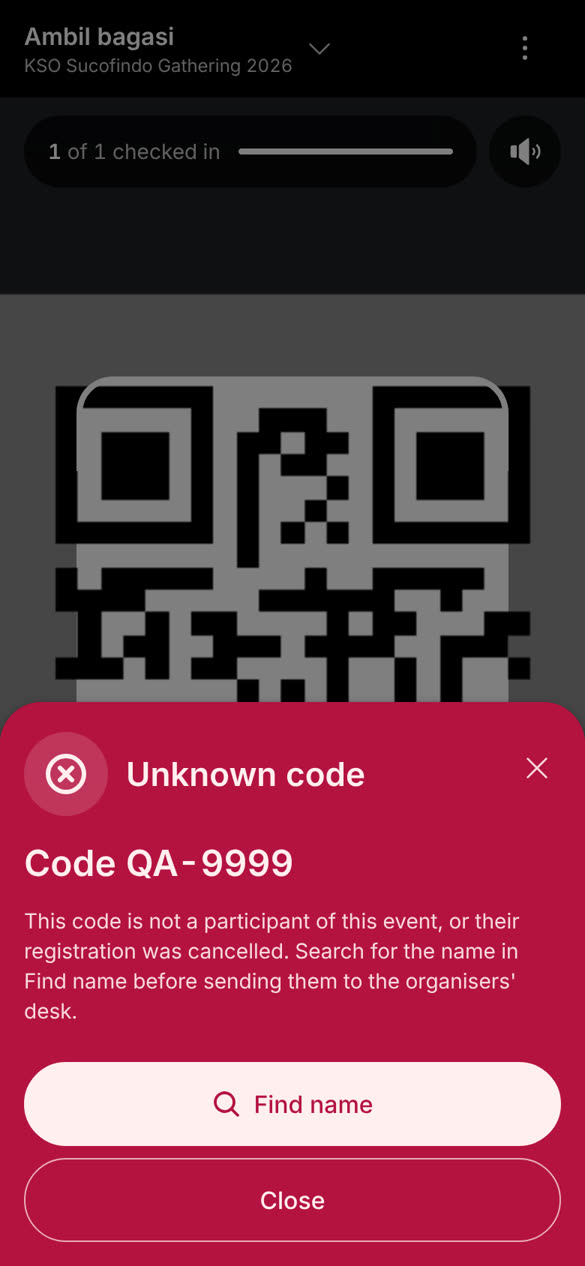
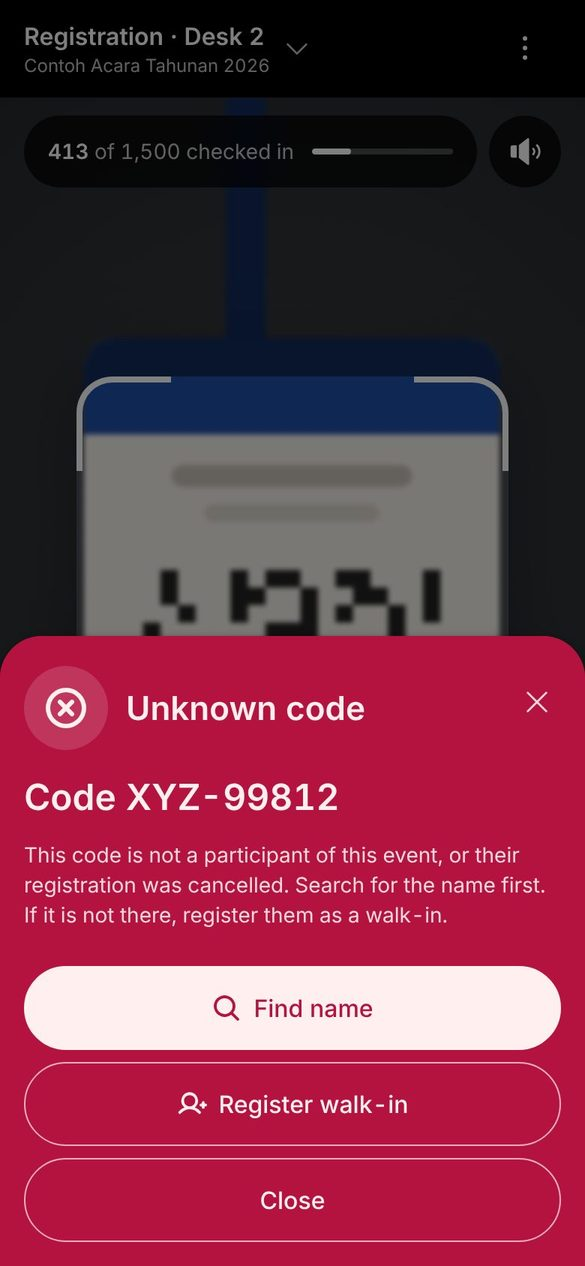
Scanner guide: pick-up desk section, screenshots on the redesigned scanner
New section 8 "Meja ambil bagasi" for the Luggage: Pick-up desk (#267):
match the bags to the drop-off photo, Hand over, Undo, already handed
over, and no luggage recorded, with four screenshots.

Every scanner screenshot is retaken on the redesigned scanner (#270)
with a sample event and sample names, and a drawn badge as the camera
image. This also fixes #270 L-7 (shots 05/06 from a luggage session).

Claude-Session: https://claude.ai/code/session_01BbtsbgVen8D1xESV4ZJwca

diff --git a/public/panduan/scanner.html b/public/panduan/scanner.html
@@ -95,7 +95,7 @@ footer { margin-top: 36px; color: var(--muted); font-size: 13px; }
   </header>
 
   <nav class="chips" aria-label="Bagian panduan">
-    <a href="#mulai">Mulai</a><a href="#meja">Sesi &amp; meja</a><a href="#scan">Scan QR</a><a href="#hasil">Arti warna</a><a href="#cari">Find name</a><a href="#walkin">Walk-in</a><a href="#riwayat">Riwayat</a><a href="#bagasi">Bagasi</a><a href="#masalah">Kalau ada masalah</a>
+    <a href="#mulai">Mulai</a><a href="#meja">Sesi &amp; meja</a><a href="#scan">Scan QR</a><a href="#hasil">Arti warna</a><a href="#cari">Find name</a><a href="#walkin">Walk-in</a><a href="#riwayat">Riwayat</a><a href="#bagasi">Titip bagasi</a><a href="#ambil">Ambil bagasi</a><a href="#masalah">Kalau ada masalah</a>
   </nav>
 
   <section id="mulai">
@@ -219,7 +219,7 @@ footer { margin-top: 36px; color: var(--muted); font-size: 13px; }
       <li>Pastikan judul atas menunjukkan sesi bagasi (ganti lewat judul itu kalau belum), lalu pindai QR peserta seperti biasa.</li>
       <li>Hitung bagasi yang dititipkan (koper, tas, kardus), lalu atur angka <span class="ui">How many bags?</span> dengan tombol <span class="ui">−</span> dan <span class="ui">+</span>. Peserta tidak menitipkan apa pun? Biarkan 0; tombol simpan berubah menjadi <span class="ui">No luggage</span>.</li>
       <li>Tekan <span class="ui">Take photo</span>. Kamera HP terbuka. Ambil satu foto berisi semua bagasi orang itu, dengan label bagasinya terlihat kalau ada. Foto kurang jelas? Tekan <span class="ui">Retake</span>.</li>
-      <li>Tekan tombol biru di bawah, misalnya <span class="ui">Save · 2 bags</span>. Setelah muncul <span class="ui kalimat">Saved. Scan the next participant.</span>, lanjut ke peserta berikutnya.</li>
+      <li>Tekan tombol putih di bawah, misalnya <span class="ui">Save · 2 bags</span>. Setelah muncul <span class="ui kalimat">Saved. Scan the next participant.</span>, lanjut ke peserta berikutnya.</li>
     </ol>
     <div class="pair">
       <figure><img src="/panduan/scanner/15-bagasi-jumlah.jpg" alt="Lembar hasil dengan isian How many bags? berisi 2 dan tombol Take photo" loading="lazy"><figcaption>Hitung, lalu Take photo</figcaption></figure>
@@ -227,7 +227,7 @@ footer { margin-top: 36px; color: var(--muted); font-size: 13px; }
     </div>
     <figure><img src="/panduan/scanner/17-bagasi-tersimpan.jpg" alt="Catatan 2 bags dengan foto dan tulisan Saved. Scan the next participant." loading="lazy"><figcaption>Tersimpan: jumlah, foto, jam, dan nama akun petugas</figcaption></figure>
     <h3>Sinyal lemah saat mengirim foto</h3>
-    <p>Jumlah bagasi selalu disimpan lebih dulu, baru fotonya menyusul. Kalau fotonya gagal terkirim, muncul tulisan oranye <span class="ui kalimat">The count is saved, but the photo did not upload.</span> Jumlahnya sudah aman. Tekan <span class="ui">Try photo again</span>, atau <span class="ui">Skip photo</span> kalau antrean panjang; catatannya tetap tersimpan, hanya tanpa foto (<span class="ui">no photo</span>).</p>
+    <p>Jumlah bagasi selalu disimpan lebih dulu, baru fotonya menyusul. Kalau fotonya gagal terkirim, muncul kotak <span class="ui kalimat">The count is saved, but the photo did not upload.</span> Jumlahnya sudah aman. Tekan <span class="ui">Try photo again</span>, atau <span class="ui">Skip photo</span> kalau antrean panjang; catatannya tetap tersimpan, hanya tanpa foto (<span class="ui">no photo</span>).</p>
     <figure><img src="/panduan/scanner/18-bagasi-foto-gagal.jpg" alt="Tulisan oranye The count is saved, but the photo did not upload, dengan tombol Skip photo dan Try photo again" loading="lazy"><figcaption>Foto gagal: jumlah tetap tersimpan</figcaption></figure>
     <h3>Memindai ulang dan mengubah catatan</h3>
     <p>Peserta yang sudah tercatat menampilkan catatannya: jumlah, foto, jam, dan siapa yang menyimpan. Ketuk fotonya untuk membukanya ukuran penuh di tab baru. Ada bagasi yang tertinggal atau salah hitung? Tekan <span class="ui">Edit</span>, ubah angkanya atau ambil foto baru, lalu simpan lagi.</p>
@@ -239,8 +239,34 @@ footer { margin-top: 36px; color: var(--muted); font-size: 13px; }
     </ul>
   </section>
 
+  <section id="ambil">
+    <h2><span class="no">8</span>Meja ambil bagasi</h2>
+    <p>Hanya di sesi yang admin atur <span class="ui">Luggage: Pick-up</span>, misalnya <span class="ui">Ambil bagasi</span>. QR peserta adalah tiket pengambilannya: setelah dipindai, lembar hasil menampilkan semua bagasi yang ia titipkan di meja titip mana pun di acara ini, lengkap dengan fotonya. Meja ambil tidak perlu dipasangkan dengan meja titip.</p>
+    <ol class="steps">
+      <li>Pastikan judul atas menunjukkan sesi ambil bagasi, lalu pindai QR peserta seperti biasa.</li>
+      <li>Lihat jumlah dan foto di bagian <span class="ui">Luggage to hand over</span>. Ambil koper di rak yang cocok dengan foto itu (warna, bentuk, label bagasi). Ketuk foto untuk melihatnya ukuran penuh.</li>
+      <li>Hitung bersama peserta, lalu tekan tombol putih <span class="ui">Hand over 2 bags</span> (angkanya mengikuti catatan). Semua bagasi satu titipan diserahkan sekaligus.</li>
+      <li>Setelah muncul <span class="ui">Handed over</span> dan <span class="ui kalimat">Saved. Scan the next participant.</span>, lanjut ke peserta berikutnya.</li>
+    </ol>
+    <div class="pair">
+      <figure><img src="/panduan/scanner/20-ambil-cocokkan.jpg" alt="Lembar hasil dengan bagian Luggage to hand over: foto dua koper, 2 bags, dan tombol Hand over 2 bags" loading="lazy"><figcaption>Cocokkan koper dengan foto</figcaption></figure>
+      <figure><img src="/panduan/scanner/21-ambil-diserahkan.jpg" alt="Tulisan Handed over dengan jam, nama akun petugas, dan tombol Undo" loading="lazy"><figcaption>Handed over: jam dan nama petugas tercatat</figcaption></figure>
+    </div>
+    <h3>Sudah diambil, atau tidak ada titipan</h3>
+    <p>Peserta yang bagasinya sudah diserahkan menampilkan kotak <span class="ui kalimat">Already handed over at … by ….</span> Jangan serahkan lagi. Kalau peserta bilang ada koper yang belum ia terima, panggil koordinator. Peserta yang tidak pernah dipindai di meja titip menampilkan <span class="ui">No luggage recorded</span>: tanyakan di mana ia menitipkan bagasinya.</p>
+    <div class="pair">
+      <figure><img src="/panduan/scanner/22-ambil-sudah.jpg" alt="Kotak Already handed over at 07:40 by scanner-ambil2 di atas foto koper" loading="lazy"><figcaption>Sudah diserahkan: jangan serahkan lagi</figcaption></figure>
+      <figure><img src="/panduan/scanner/23-ambil-tidak-ada.jpg" alt="Tulisan No luggage recorded" loading="lazy"><figcaption>Tidak ada titipan</figcaption></figure>
+    </div>
+    <ul>
+      <li>Salah tekan <span class="ui">Hand over</span>? Tekan <span class="ui">Undo</span> di lembar yang sama. Undo hanya ada untuk penyerahan yang Anda buat sendiri.</li>
+      <li>Selama tombol <span class="ui">Hand over</span> belum ditekan, peserta berikutnya yang terpindai menunggu dengan tulisan <span class="ui kalimat">… is scanned and waiting. Hand over the luggage of … first.</span>, sama seperti di meja titip.</li>
+      <li>Setelah diserahkan, kartu <span class="ui">Bagasi</span> peserta di halaman Perjalanan berubah menjadi <span class="ui">Sudah kamu terima</span> dengan jamnya.</li>
+    </ul>
+  </section>
+
   <section id="masalah">
-    <h2><span class="no">8</span>Kalau ada masalah</h2>
+    <h2><span class="no">9</span>Kalau ada masalah</h2>
     <figure><img src="/panduan/scanner/08-tidak-tersimpan.jpg" alt="Lembar merah Not saved dan tanda Offline" loading="lazy"><figcaption>Not saved dan tanda Offline di atas</figcaption></figure>
     <div class="fix">
       <div><strong><span class="ui">Not saved</span> / tanda <span class="ui">Offline</span></strong><p>Koneksi putus, peserta belum tercatat. Tekan <span class="ui">Retry</span>. Tanda Offline hilang sendiri setelah pindaian berikutnya berhasil.</p></div>

diff --git a/docs/STATUS.md b/docs/STATUS.md
@@ -17,13 +17,14 @@ Current state only. History is in `git log` and PR descriptions. Last updated: 2
 
 - Admin English, next batches by area: Check-in, then the rest of admin; Booth offers condition summaries are still Indonesian.
 - Lucky draw admin screens: 48 DESIGN.md deviations listed (raw fields and selects, hand-written toggles and buttons); restyle batch after the English PR.
-- Scanner guide: a section for the luggage pick-up desk (#267), and the screenshots retaken after the scanner redesign (#270); one follow-up PR after #270.
-- Admin System guide (`/panduan/sistem`, from the admin sidebar) rewritten by task (Logistics first, then Check-in, luggage and Checkpoints) with admin screenshots: PR #269, approved by Mas 24 Oct. Help page only.
 - Build with AI: proposal written, waiting on Mas's "lanjut".
 - Admin language phase 4a (remaining Indonesian strings on admin screens, including the Check-in page): not started.
 
 ## Recently merged (for context; details in the PRs)
 
+- Scanner guide follow-up (this PR): section 8 "Meja ambil bagasi" for the pick-up desk (#267) with four screenshots, and every scanner screenshot retaken on the redesigned scanner (#270) with a sample event, sample names and a drawn badge as the camera image. No code change.
+- #269 Admin System guide (merged 24 Oct): `/panduan/sistem` rewritten by task in working order, Logistics first (hotel first and room later, hotel changes, rooming-list import, Stays), then buses/trains/kit, Logistics from the Participant list, what participants see, check-in and luggage desks, checkpoints; numbered steps and admin screenshots with sample names. Help page only.
+- #266 Docs and Scanner guide for #249-#265 (merged 24 Oct): Scanner guide section "Meja titip bagasi"; STATUS, PRODUCT, GLOSSARY, cron and CLAUDE.md caught up with hotel stays, luggage and Logistics from Participants.
 - #270 Scanner redesign (merged 24 Oct, timing OK from Mas): phone Scan tab is a full-screen dark viewfinder with corner brackets, the count on one line (also with the camera off) and the last check-in above the nav (tap opens History); the result sheet is solid success/warning/error with full-width pill buttons ("Scan next" carries the auto-close countdown, Unknown code offers Find name); desktop keeps the centred sheet. Logic unchanged, no SQL. Scanner guide shots 03-08 and 14 retaken.
 - #268 Shorter Horizon Perjalanan page (merged 24 Oct, together with #267 at Mas's choice): sticky jump chips (Hotel, Bus, Kereta, Bagasi, Rute) under the header when the participant has 3+ travel cards; finished items fold into one tappable row (hotel stays after check-out, bus trips already departed, train legs already arrived). From 1280 all stays stack beside the bus card. No SQL.
 - #267 Luggage pick-up desk (merged 24 Oct; approved by Mas 23 Oct; migration `202610240001_ambil_bagasi` run by Mas, post-check all true): Check-in > Sessions > Luggage is Off / Drop-off / Pick-up; a Pick-up session shows every drop-off of the scanned participant with "Hand over N bags", each handed over once, own handovers can be undone; the participant's Bagasi card reads "Sudah kamu terima" with the pick-up time.
@@ -136,7 +137,7 @@ Known issues that QA left open on purpose, by area. Fix one only when it is chea
 - #152 residual: two edits to one participant's seats in different sessions can lose one update (also on main; needs an atomic RPC).
 
 ### Scanner
-- #270 L-4 to L-8: `.gelap-ponsel` copies dark-theme hex values instead of tokens; focus lands on the page body after auto-close; camera denied shows the frame and hint with no retry; guide shots 05/06 come from a luggage session without the luggage card; at 360x640 a 3-line last check-in name partly covers the camera hint.
+- #270 L-4 to L-6 and L-8: `.gelap-ponsel` copies dark-theme hex values instead of tokens; focus lands on the page body after auto-close; camera denied shows the frame and hint with no retry; at 360x640 a 3-line last check-in name partly covers the camera hint.
 - #267 luggage pick-up: the admin totals read up to 20,000 drop-offs and re-read them on every 30 s refresh; on a re-scan the headline repeats the "Already handed over" banner; Undo has no time limit; the portal luggage read uses `select("*")` (go back to an explicit column list).
 - #60 N1: a reply lost to the 8 s timeout shows the orange "already scanned" sheet for a guest who just checked in.
 - #60 N2/N3: hand-scanner reads also get the 2.5 s same-code hold, and re-opening a sheet restarts the bar but not its close timer.

diff --git a/docs/PRODUCT.md b/docs/PRODUCT.md
@@ -260,7 +260,7 @@ Booth, Cashier and Scanner can open only an Active event. Every role except Supe
   - Registration desks (lanes): one per physical desk, open/closed; each desk can drive its own welcome screen.
   - Walk-ins: allow walk-ins (off by default); the form follows the registration form fields.
   - Checkpoints (below).
-- **Scanner screen** `/e/<slug>/scan?sesi=<session>`: camera QR, name search, or a handheld scanner. Results: recorded, already recorded, not found, walk-in created. Shows the seat, kit items to hand out (once per person), and can print a label. With several desks, the phone must pick its desk first. The ⋮ menu opens the Scanner guide (`/panduan/scanner.html`, Indonesian with the English button names).
+- **Scanner screen** `/e/<slug>/scan?sesi=<session>`: camera QR, name search, or a handheld scanner. Results: recorded, already recorded, not found, walk-in created. Shows the seat, kit items to hand out (once per person), and can print a label. With several desks, the phone must pick its desk first. The ⋮ menu opens the Scanner guide (`/panduan/scanner.html`, Indonesian with the English button names; it covers the luggage drop-off and pick-up desks).
 - **Luggage pick-up desk** (session with Luggage: Pick-up): after the scan, the sheet shows every drop-off of that participant in the event, from any drop-off desk (no pairing to set up): a large photo to match the bags against, the count, when and where it was dropped and who recorded it. "Hand over N bags" records the time and staff; the next scan waits until it is pressed or the sheet is closed. A re-scan says who handed it over and when, with no second handover; staff can Undo their own handover. Someone with no drop-off gets "No luggage recorded". The participant's Bagasi card then reads "Sudah kamu terima" with the pick-up time. All bags of one drop-off go back together (no partial pick-up).
 - **Luggage drop-off desk** (session with Luggage: Drop-off): after the scan, staff set the number of bags (0 = "No luggage") and take one photo of all of them with the phone camera; the count is saved first and the photo (shrunk on the phone) follows, with Try photo again or Skip photo on a weak signal. The next scan waits until it is saved. A re-scan shows the count, photo, time and who saved it, with Edit. Checkpoints on such a session are always done by staff scan. Photos sit in a private bucket: admins and scanners of the event see them, each participant sees their own (Horizon Perjalanan "Bagasi" card), and they are deleted 30 days after the event ends; counts stay.
 
